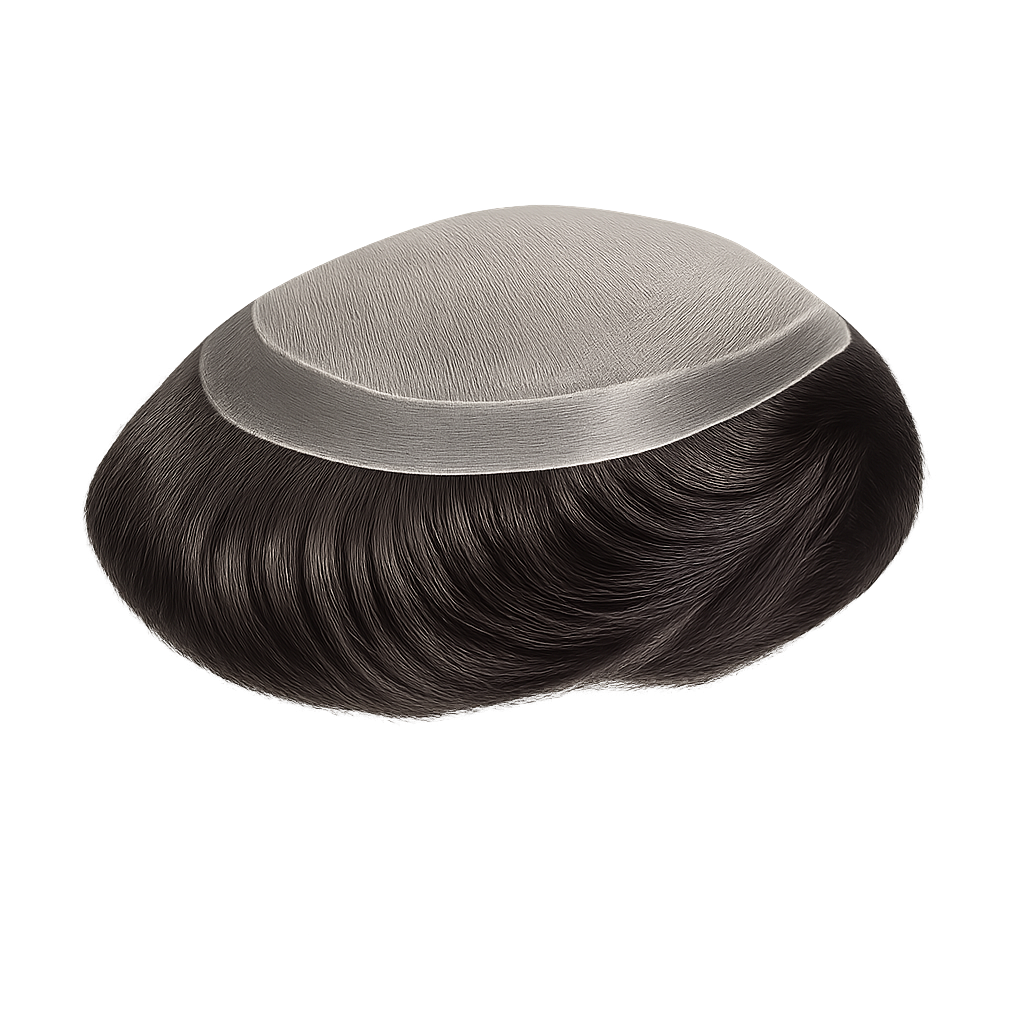
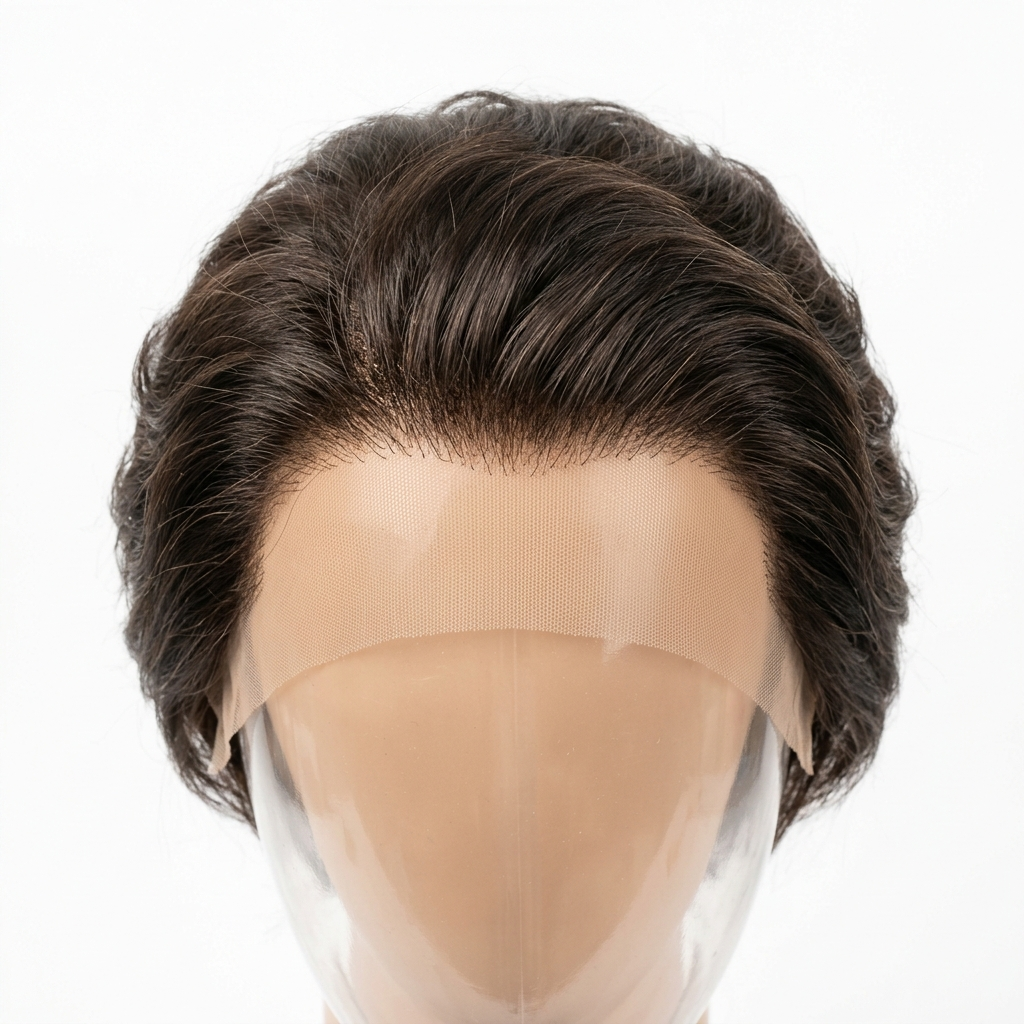
Update footer background color to website primary button color (olive/gold) and adjust typography contrast

diff --git a/footer.php b/footer.php
@@ -1,84 +1,84 @@
 <!-- Footer -->
-    <footer class="bg-surface-container-lowest w-full border-t border-surface-variant pt-20 pb-10">
+    <footer class="bg-primary text-white w-full border-t border-white/10 pt-20 pb-10">
         <div class="max-w-[1280px] mx-auto px-margin-mobile md:px-margin-desktop">
             <div class="grid grid-cols-1 md:grid-cols-2 lg:grid-cols-4 gap-12 mb-16">
                 <!-- Brand & About -->
                 <div class="flex flex-col gap-6">
                     <a class="flex items-center gap-2 group" href="index.php">
-                        <img alt="Growig Logo" class="h-10 w-auto object-contain grayscale opacity-80"
+                        <img alt="Growig Logo" class="h-10 w-auto object-contain brightness-0 invert opacity-90"
                             src="https://lh3.googleusercontent.com/aida-public/AB6AXuB_Fvti5zj5yA0e3mx5gnZWkmjw05AByrcoLzIdiVdh1ROEx263HQYnxKhkuIFQpQeEK5r6MWx6ztYxygylaLwM1vObXU4_y14AoejXVBNy9ei7Vc6yQ8U4_LQbDbVk_cM24aYXAPFHcsqHU0LF7G7A1XoDEAE-8aMgkOvHqcjuCWArzAZMAExVP7lQyH9uHDU0Nr4I0rJGTiTp7LRyQwWfxG7nKdaDV9y-v1vyEGwFKeV0_RwaHSm5H32bgi9ZFh-CWUvvmz5-kRs" />
                     </a>
                     <div class="space-y-4">
-                        <p class="font-body-md text-on-surface-variant text-sm leading-relaxed pr-4">
+                        <p class="font-body-md text-white/80 text-sm leading-relaxed pr-4">
                             Premium non-surgical hair replacement studio in Gurgaon. Dedicated to restoring confidence with
                             undetectable, bespoke solutions.
                         </p>
-                        <div class="flex flex-col gap-3 text-on-surface-variant text-sm pt-2">
+                        <div class="flex flex-col gap-3 text-white/80 text-sm pt-2">
                             <div class="flex items-start gap-3">
-                                <span class="material-symbols-outlined text-primary text-[20px] mt-0.5">phone</span>
+                                <span class="material-symbols-outlined text-white text-[20px] mt-0.5">phone</span>
                                 <div class="flex flex-col gap-1">
-                                    <a class="hover:text-primary transition-colors font-body-md" href="tel:[phone redacted]">[phone redacted]</a>
-                                    <a class="hover:text-primary transition-colors font-body-md" href="tel:[phone redacted]">[phone redacted]</a>
+                                    <a class="hover:text-primary-fixed transition-colors font-body-md" href="tel:[phone redacted]">[phone redacted]</a>
+                                    <a class="hover:text-primary-fixed transition-colors font-body-md" href="tel:[phone redacted]">[phone redacted]</a>
                                 </div>
                             </div>
                             <div class="flex items-center gap-3">
-                                <span class="material-symbols-outlined text-primary text-[20px]">mail</span>
-                                <a class="hover:text-primary transition-colors font-body-md" href="mailto:[email redacted]">[email redacted]</a>
+                                <span class="material-symbols-outlined text-white text-[20px]">mail</span>
+                                <a class="hover:text-primary-fixed transition-colors font-body-md" href="mailto:[email redacted]">[email redacted]</a>
                             </div>
                         </div>
                     </div>
                 </div>
                 <!-- Navigation -->
                 <div class="flex flex-col gap-4">
-                    <h4 class="font-label-md text-secondary uppercase tracking-widest mb-2 text-sm">Explore</h4>
-                    <a class="text-on-surface-variant hover:text-primary transition-colors font-body-md text-sm"
+                    <h4 class="font-label-md text-white uppercase tracking-widest mb-2 text-sm font-bold">Explore</h4>
+                    <a class="text-white/80 hover:text-primary-fixed transition-colors font-body-md text-sm"
                         href="index.php">Home</a>
-                    <a class="text-on-surface-variant hover:text-primary transition-colors font-body-md text-sm"
+                    <a class="text-white/80 hover:text-primary-fixed transition-colors font-body-md text-sm"
                         href="about.php">About Us</a>
-                    <a class="text-on-surface-variant hover:text-primary transition-colors font-body-md text-sm"
+                    <a class="text-white/80 hover:text-primary-fixed transition-colors font-body-md text-sm"
                         href="collection.php">Collections</a>
-                    <a class="text-on-surface-variant hover:text-primary transition-colors font-body-md text-sm"
+                    <a class="text-white/80 hover:text-primary-fixed transition-colors font-body-md text-sm"
                         href="#testimonials">Reviews</a>
-                    <a class="text-on-surface-variant hover:text-primary transition-colors font-body-md text-sm"
+                    <a class="text-white/80 hover:text-primary-fixed transition-colors font-body-md text-sm"
                         href="#contact">Contact</a>
                 </div>
                 <!-- Services -->
                 <div class="flex flex-col gap-4">
-                    <h4 class="font-label-md text-secondary uppercase tracking-widest mb-2 text-sm">Services</h4>
-                    <a class="text-on-surface-variant hover:text-primary transition-colors font-body-md text-sm"
+                    <h4 class="font-label-md text-white uppercase tracking-widest mb-2 text-sm font-bold">Services</h4>
+                    <a class="text-white/80 hover:text-primary-fixed transition-colors font-body-md text-sm"
                         href="premium-hair-patch.php">Premium Hair Patch</a>
-                    <a class="text-on-surface-variant hover:text-primary transition-colors font-body-md text-sm"
+                    <a class="text-white/80 hover:text-primary-fixed transition-colors font-body-md text-sm"
                         href="full-hair-wig.php">Full Hair Wigs</a>
-                    <a class="text-on-surface-variant hover:text-primary transition-colors font-body-md text-sm"
+                    <a class="text-white/80 hover:text-primary-fixed transition-colors font-body-md text-sm"
                         href="non-surgical-replacement.php">Non-Surgical Replacement</a>
-                    <a class="text-on-surface-variant hover:text-primary transition-colors font-body-md text-sm"
+                    <a class="text-white/80 hover:text-primary-fixed transition-colors font-body-md text-sm"
                         href="hair-bonding.php">Hair Bonding</a>
-                    <a class="text-on-surface-variant hover:text-primary transition-colors font-body-md text-sm"
+                    <a class="text-white/80 hover:text-primary-fixed transition-colors font-body-md text-sm"
                         href="maintenance-and-styling.php">Maintenance & Styling</a>
-                    <a class="text-on-surface-variant hover:text-primary transition-colors font-body-md text-sm"
+                    <a class="text-white/80 hover:text-primary-fixed transition-colors font-body-md text-sm"
                         href="custom-hairline-design.php">Custom Hairline Design</a>
                 </div>
                 <!-- Location -->
                 <div class="flex flex-col gap-4">
-                    <h4 class="font-label-md text-secondary uppercase tracking-widest mb-2 text-sm">Location</h4>
-                    <div class="flex items-start gap-3 text-on-surface-variant text-sm">
-                        <span class="material-symbols-outlined text-primary text-[20px]">location_on</span>
+                    <h4 class="font-label-md text-white uppercase tracking-widest mb-2 text-sm font-bold">Location</h4>
+                    <div class="flex items-start gap-3 text-white/80 text-sm">
+                        <span class="material-symbols-outlined text-white text-[20px]">location_on</span>
                         <span>Ramphal Chowk Rd, Block F, Sector 7 Dwarka, Dwarka, Delhi, 110077</span>
                     </div>
-                    <div class="w-full h-[150px] rounded-xl overflow-hidden shadow-sm border border-surface-variant/30 mt-2">
+                    <div class="w-full h-[150px] rounded-xl overflow-hidden shadow-sm border border-white/10 mt-2">
                         <iframe src="https://www.google.com/maps/embed?pb=!1m18!1m12!1m3!1d3704.2060479792467!2d77.06936177571829!3d28.58520787569065!2m3!1f0!2f0!3f0!3m2!1i1024!2i768!4f13.1!3m3!1m2!1s0x390d1b158c96920f%3A0x8482722061064f9a!2sGrowig%20hair%20solution!5e1!3m2!1sen!2sin!4v1780336153874!5m2!1sen!2sin" class="w-full h-full" style="border:0;" allowfullscreen="" loading="lazy" referrerpolicy="no-referrer-when-downgrade"></iframe>
                     </div>
                 </div>
             </div>
             <!-- Bottom Footer -->
-            <div class="flex flex-col md:flex-row justify-between items-center gap-6 pt-12 border-t border-surface-variant/30">
-                <div class="text-on-surface-variant text-xs">
+            <div class="flex flex-col md:flex-row justify-between items-center gap-6 pt-12 border-t border-white/10">
+                <div class="text-white/60 text-xs">
                     © 2026 GROWIG HAIR SOLUTIONS. ALL RIGHTS RESERVED.
                 </div>
                 <div class="flex gap-6">
-                    <a class="text-on-surface-variant hover:text-primary transition-colors font-body-md text-xs"
+                    <a class="text-white/60 hover:text-primary-fixed transition-colors font-body-md text-xs"
                         href="#">Privacy Policy</a>
-                    <a class="text-on-surface-variant hover:text-primary transition-colors font-body-md text-xs"
+                    <a class="text-white/60 hover:text-primary-fixed transition-colors font-body-md text-xs"
                         href="#">Terms of Service</a>
                 </div>
             </div>